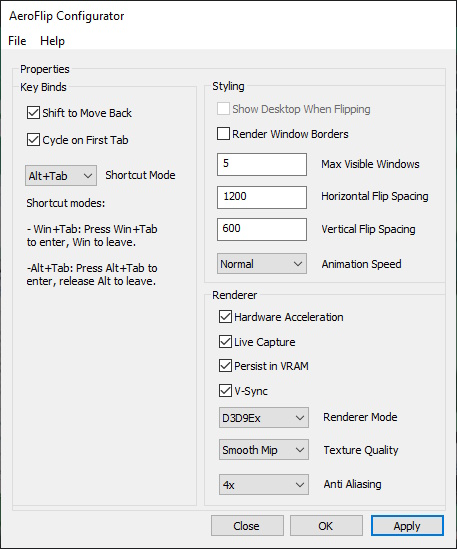
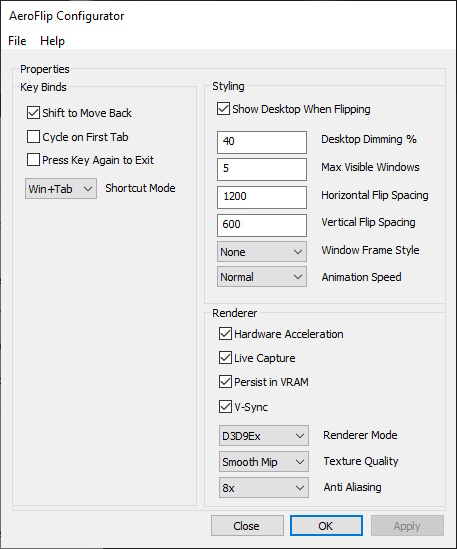
update config jpg and add bug notice

diff --git a/README.md b/README.md
@@ -31,11 +31,11 @@ _(Running on Windows 10, using other styling tools such as [RetroBar](https://gi
 
 ![AeroFlip Config Screenshot](screenshots/config.jpg "AeroFlip Configurator")
 
-_(AeroFlip Configurator, screenshot from v1.2-beta)_
+_(AeroFlip Configurator, screenshot from v1.3)_
 
 ### Known bugs:
 
-* _No breaking bugs known as of now._
+* Semi-transparent windows slightly leak the desktop. This is not very noticeable but still an issue nonetheless.
 
 # Implementation
 